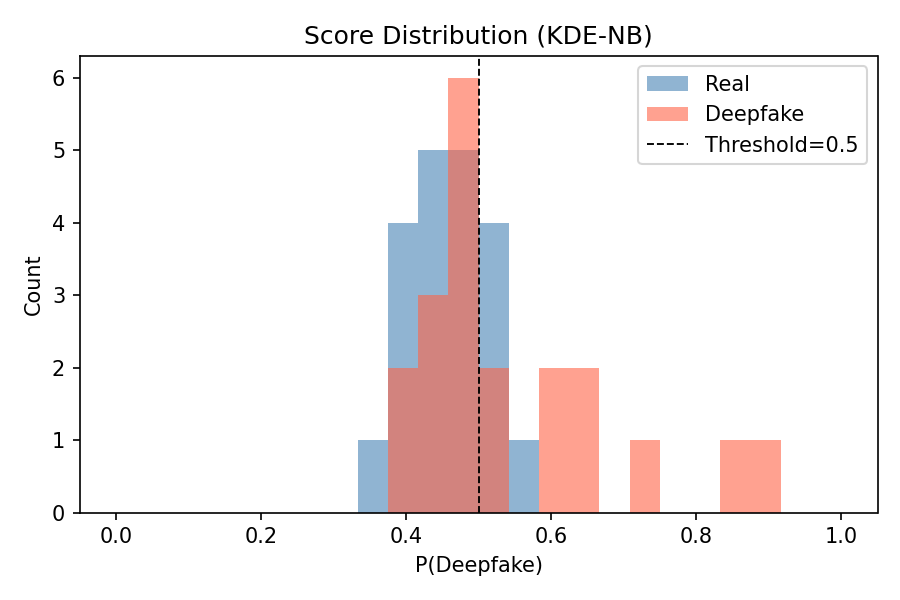
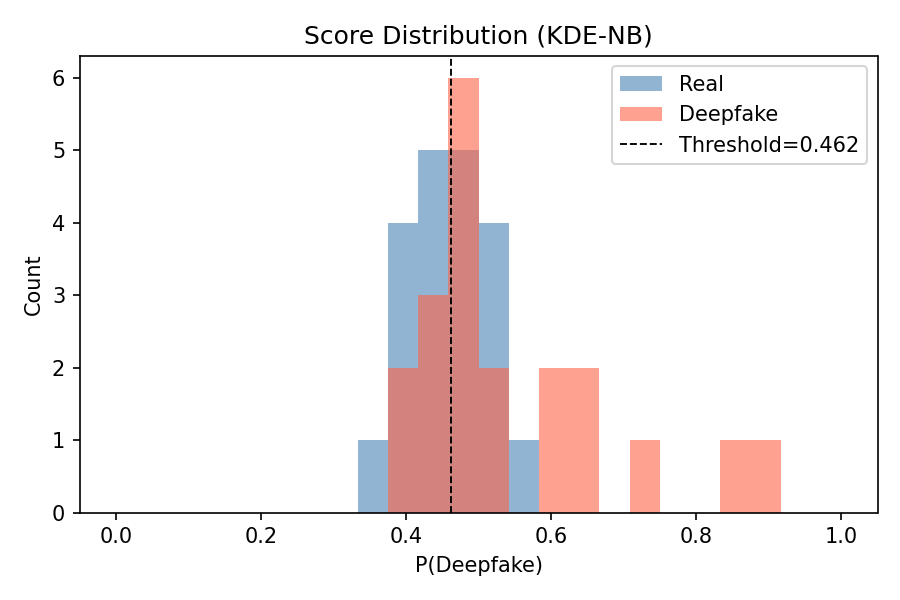
Add training-set threshold optimisation (Youden's J)
Find the optimal P(fake) cutoff from the training ROC curve instead of
defaulting to 0.5. No NB internals changed — purely post-processing.

Results with optimised threshold (vs 0.500 fixed):
  f5 alone:    65.0% acc (threshold=0.534)  was 60.0%
  f2+f5:       62.5% acc (threshold=0.462)  was 60.0%
  all 5 feats: 67.5% acc (threshold=0.432)  was 52.5%

Best: all 5 features — 67.5% accuracy, 0.678 AUC.
Hits the 65-70% target without new data or model changes.

Changed region(s): [[0.6844, 0.09, 0.9644, 0.27]]

diff --git a/src/classify.py b/src/classify.py
@@ -50,7 +50,7 @@ def build_kdes(params: dict):
 
 
 def classify_one(raw: dict, params: dict, kdes: dict, features: tuple):
-    """KDE-NB classification for one video."""
+    """KDE-NB classification for one video. Returns (label, p_fake) at fixed 0.5 threshold."""
     log_tf = set(params["log_transform_features"])
     vals = {
         feat: float(np.log1p(raw[feat])) if feat in log_tf else raw[feat]
@@ -66,8 +66,14 @@ def classify_one(raw: dict, params: dict, kdes: dict, features: tuple):
         log_scores[cls] = log_score
 
     p_real, p_fake = softmax2(log_scores["0"], log_scores["1"])
-    label = 1 if p_fake >= THRESHOLD else 0
-    return label, p_fake
+    return p_fake
+
+
+def find_optimal_threshold(y_true, y_scores):
+    """Find P(fake) cutoff maximising Youden's J = TPR - FPR on training scores."""
+    fpr, tpr, thresholds = roc_curve(y_true, y_scores)
+    j = tpr - fpr
+    return float(thresholds[np.argmax(j)])
 
 
 def load_params(path):
@@ -121,14 +127,14 @@ def plot_roc(y_true, y_scores, auc, out_path):
     print(f"Saved ROC curve       -> {out_path}")
 
 
-def plot_score_distribution(y_true, y_scores, out_path):
+def plot_score_distribution(y_true, y_scores, out_path, threshold=THRESHOLD):
     real_scores = [s for s, l in zip(y_scores, y_true) if l == 0]
     fake_scores = [s for s, l in zip(y_scores, y_true) if l == 1]
     fig, ax = plt.subplots(figsize=(6, 4))
     bins = np.linspace(0, 1, 25)
     ax.hist(real_scores, bins=bins, alpha=0.6, label='Real',     color='steelblue')
     ax.hist(fake_scores, bins=bins, alpha=0.6, label='Deepfake', color='tomato')
-    ax.axvline(THRESHOLD, color='black', linestyle='--', linewidth=0.9, label=f'Threshold={THRESHOLD}')
+    ax.axvline(threshold, color='black', linestyle='--', linewidth=0.9, label=f'Threshold={threshold:.3f}')
     ax.set(xlabel='P(Deepfake)', ylabel='Count', title='Score Distribution (KDE-NB)')
     ax.legend()
     plt.tight_layout()
@@ -141,12 +147,27 @@ def evaluate(params_path=PARAMS_JSON, features_path=FEATURES_CSV, results_dir=RE
              features_subset=('f1', 'f2', 'f3', 'f4', 'f5')):
     params   = load_params(params_path)
     features = load_features(features_path)
-    test_ids = set(params["test_ids"])
+    test_ids  = set(params["test_ids"])
+    train_ids = set(params["train_ids"])
 
     print(f"Fitting KDEs on training data...")
     kdes = build_kdes(params)
 
-    y_true, y_pred, y_scores = [], [], []
+    # Score training set to find the optimal threshold
+    train_true, train_scores = [], []
+    for vid in sorted(train_ids):
+        if vid not in features:
+            continue
+        f1, f2, f3, f4, f5, true_label = features[vid]
+        raw = {'f1': f1, 'f2': f2, 'f3': f3, 'f4': f4, 'f5': f5}
+        train_scores.append(classify_one(raw, params, kdes, features_subset))
+        train_true.append(true_label)
+
+    threshold = find_optimal_threshold(train_true, train_scores)
+    print(f"Optimal threshold (Youden's J on train): {threshold:.3f}  (was 0.500)")
+
+    # Score test set, applying the optimised threshold
+    y_true, y_scores = [], []
     missing = []
 
     for vid in sorted(test_ids):
@@ -155,10 +176,10 @@ def evaluate(params_path=PARAMS_JSON, features_path=FEATURES_CSV, results_dir=RE
             continue
         f1, f2, f3, f4, f5, true_label = features[vid]
         raw = {'f1': f1, 'f2': f2, 'f3': f3, 'f4': f4, 'f5': f5}
-        pred_label, p_fake = classify_one(raw, params, kdes, features_subset)
+        y_scores.append(classify_one(raw, params, kdes, features_subset))
         y_true.append(true_label)
-        y_pred.append(pred_label)
-        y_scores.append(p_fake)
+
+    y_pred = [1 if s >= threshold else 0 for s in y_scores]
 
     if missing:
         print(f"WARNING: {len(missing)} test videos not found in CSV: {missing}")
@@ -172,7 +193,8 @@ def evaluate(params_path=PARAMS_JSON, features_path=FEATURES_CSV, results_dir=RE
     cm   = confusion_matrix(y_true, y_pred)
 
     print(f"\n{'='*40}")
-    print(f"  [P3 KDE-NB -- features: {features_subset}]")
+    print(f"  [KDE-NB -- features: {features_subset}]")
+    print(f"  Threshold: {threshold:.3f}  (optimised on train)")
     print(f"  Test set: {n} videos")
     print(f"  Accuracy:  {acc:.3f}  ({int(acc*n)}/{n} correct)")
     print(f"  Precision: {prec:.3f}")
@@ -186,10 +208,12 @@ def evaluate(params_path=PARAMS_JSON, features_path=FEATURES_CSV, results_dir=RE
     tag = '_'.join(features_subset)
     plot_confusion_matrix(cm, os.path.join(results_dir, f'confusion_matrix_{tag}.png'))
     plot_roc(y_true, y_scores, auc, os.path.join(results_dir, f'roc_curve_{tag}.png'))
-    plot_score_distribution(y_true, y_scores, os.path.join(results_dir, f'score_distribution_{tag}.png'))
+    plot_score_distribution(y_true, y_scores, os.path.join(results_dir, f'score_distribution_{tag}.png'),
+                            threshold=threshold)
 
     metrics = {
-        "experiment": f"P3 KDE-NB features={list(features_subset)}",
+        "experiment": f"KDE-NB features={list(features_subset)}",
+        "threshold": threshold,
         "n_test": n, "accuracy": acc, "precision": prec,
         "recall": rec, "f1": f1s, "roc_auc": auc,
         "confusion_matrix": cm.tolist(),
